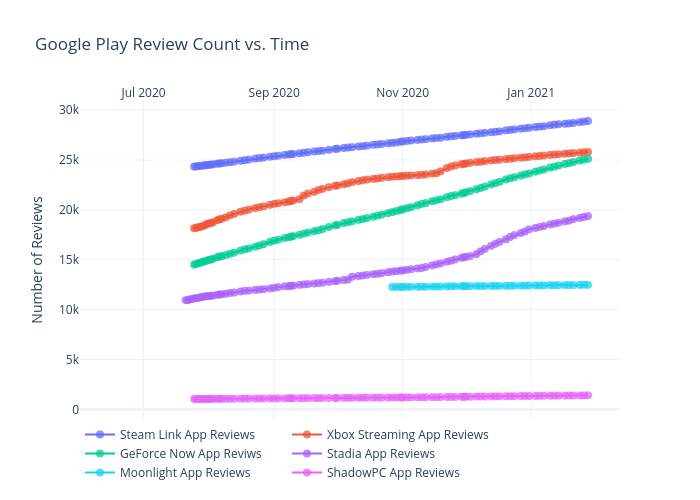
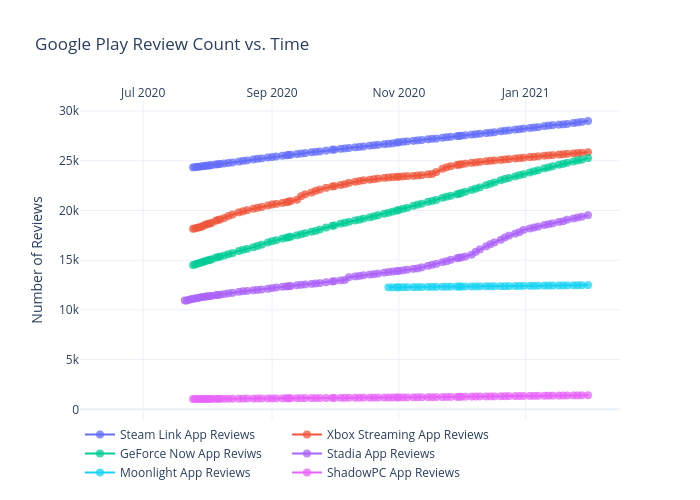
Add files via upload

diff --git a/googleplay/figure.js b/googleplay/figure.js
@@ -210,7 +210,8 @@ var figure = {
                 "28708",
                 "28800",
                 "28849",
-                "28911"
+                "28911",
+                "29002"
             ],
             "marker": {
                 "size": 8,
@@ -430,7 +431,8 @@ var figure = {
                 "25699",
                 "25741",
                 "25776",
-                "25802"
+                "25802",
+                "25858"
             ],
             "marker": {
                 "size": 8,
@@ -650,7 +652,8 @@ var figure = {
                 "24796",
                 "24939",
                 "25033",
-                "25110"
+                "25110",
+                "25271"
             ],
             "marker": {
                 "size": 8,
@@ -870,7 +873,8 @@ var figure = {
                 "19071",
                 "19195",
                 "19290",
-                "19375"
+                "19375",
+                "19527"
             ],
             "marker": {
                 "size": 8,
@@ -1090,7 +1094,8 @@ var figure = {
                 "12465",
                 "12474",
                 "12479",
-                "12483"
+                "12483",
+                "12492"
             ],
             "marker": {
                 "size": 8,
@@ -1310,7 +1315,8 @@ var figure = {
                 "1389",
                 "1396",
                 "1400",
-                "1407"
+                "1407",
+                "1414"
             ],
             "marker": {
                 "size": 8,
@@ -1329,8 +1335,8 @@ var figure = {
             "side": "top",
             "type": "date",
             "range": [
-                "2020-06-02 00:38:12.9418",
-                "2021-02-10 23:21:47.0582"
+                "2020-06-01 20:11:06.742",
+                "2021-02-14 03:48:53.258"
             ],
             "title": {
                 "text": ""
@@ -1340,8 +1346,8 @@ var figure = {
         "yaxis": {
             "type": "linear",
             "range": [
-                -958.5112294845958,
-                30905.511229484597
+                -965.0224589691913,
+                31003.02245896919
             ],
             "title": {
                 "text": "Number of Reviews"
